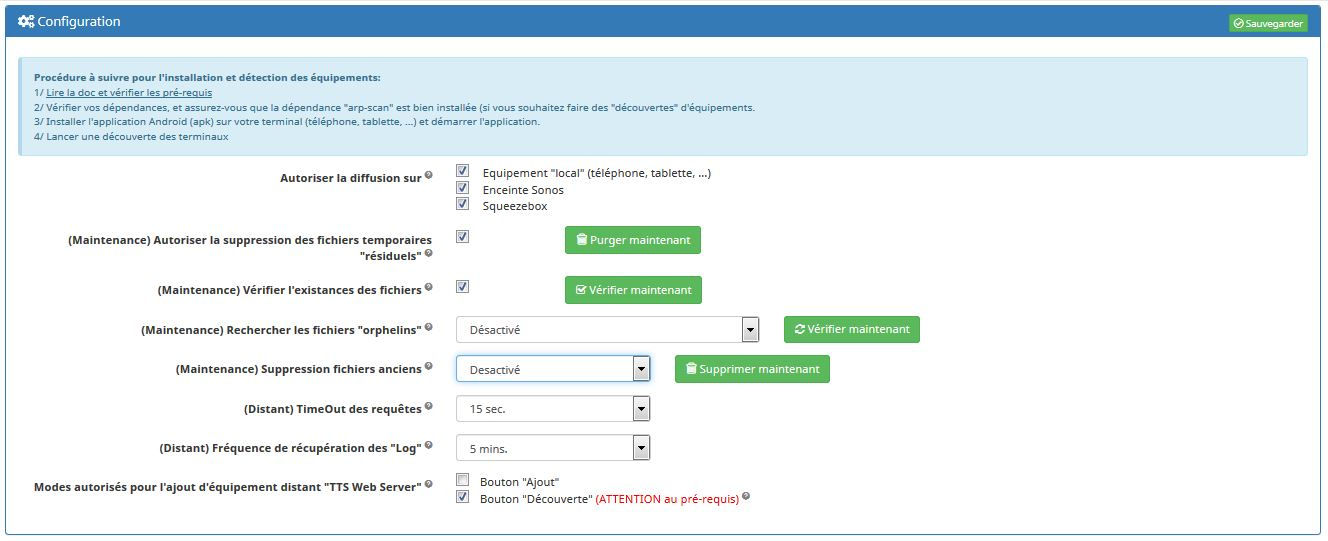
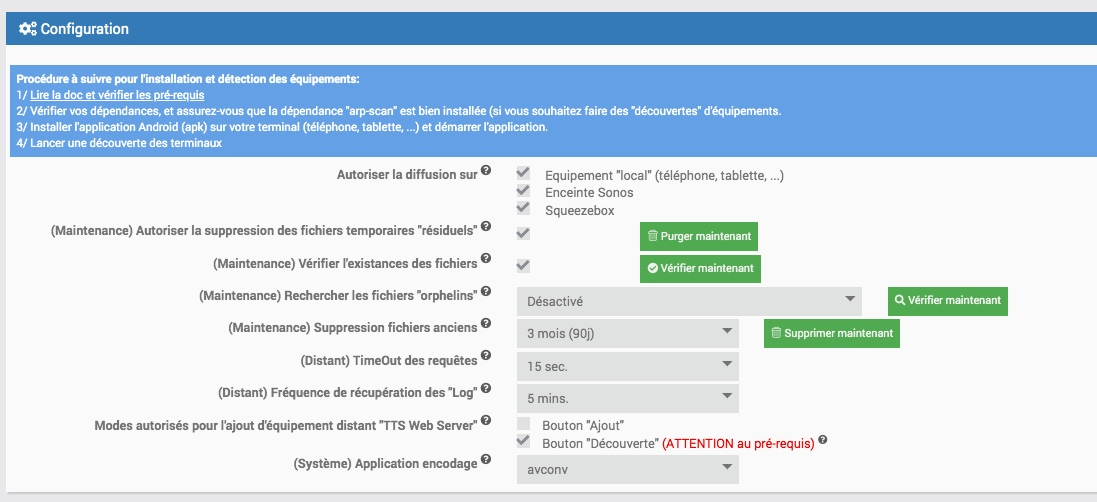
maj doc, changelog tws

diff --git a/docs/ttsWebServer/index.md b/docs/ttsWebServer/index.md
@@ -80,6 +80,7 @@ Des paramètres de configuration vous sont proposés, mais les valeurs par défa
 | (Distant) TimeOut des requêtes | Définit la durée de timeout de la requête émise entre le plugin et l'application Android TTS Web Server. <br/> Valeurs possibles: 10, 15, 30 et 60 secondes. |
 | (Distant) Fréquence de récupération des logs | Définit la fréquence à laquelle, le plugin TWS ira récupérer les logs disponibles sur l'application Android TWS, pour les enregistrer localement sur jeedom. <br/> Valeurs possibles: Désactivé, 5, 15, 30 mins, 1h, 3h. |
 | Modes autorisés pour l'ajout d'équipement distant "TTS Web Server" | Propose 2 choix : le bouton "Ajouter" (avec saisie manuelle), et le bouton "Découverte". <br/>_**Remarque :**<br/> - le bouton "Découverte" n'est disponible que si la dépendance "ARP-SCAN" est installée. <br/>- le bouton "Ajouter" n'est pas proposé par défaut (il a été rajouté suite à la rencontre des difficultés pour certains utilisateurs)._ | 
+| (Système) Application encodage | Permet de définir l'application utilisée pour l'encodage des fichiers audio (ffmpeg ou avconv). <br/> Par défaut, "avconv". <br/> _**Remarque:**_ un passage sous debian 10, nécéssite de passer en "ffmpeg". |
 
 ## # Page des équipements TWS
 

diff --git a/docs/iCalendar/changelog.md b/docs/iCalendar/changelog.md
@@ -3,7 +3,7 @@
 #### v1.5.2 (15-17-18/01/2020=BETA - STABLE=18/01/2020) :
 - adaptation: compatibilité jeedom 4.x et php 7 (correction #32,#33)
 - correction/adaptation: diverses corrections (page panel: affichage du détail des évènements, liste des actions)
-- class olindoteTools: 1.12
+- _class olindoteTools: 1.12_
 - _remise en forme de la doc au template olindote_
 
 #### v1.4.0 (07/03/2019 - STABLE=11/03/2019) :

diff --git a/docs/ttsWebServer/changelog.md b/docs/ttsWebServer/changelog.md
@@ -1,5 +1,9 @@
 # Changelog
 
+#### v1.3.0 (26/01/2020=BETA & STABLE=?) :
+- correction: compatibilité debian 10 (avconv <> ffmpeg)
+- _class olindoteTools: 1.12_
+
 #### v1.2.2 (26/08/2019-BETA & STABLE-03/09) :
 - correction: compatibilité PHP 7.3 (object > jeeObject)
 - evolution: ajout du bouton "rafraichir" sur la page "info" de l'équipement
